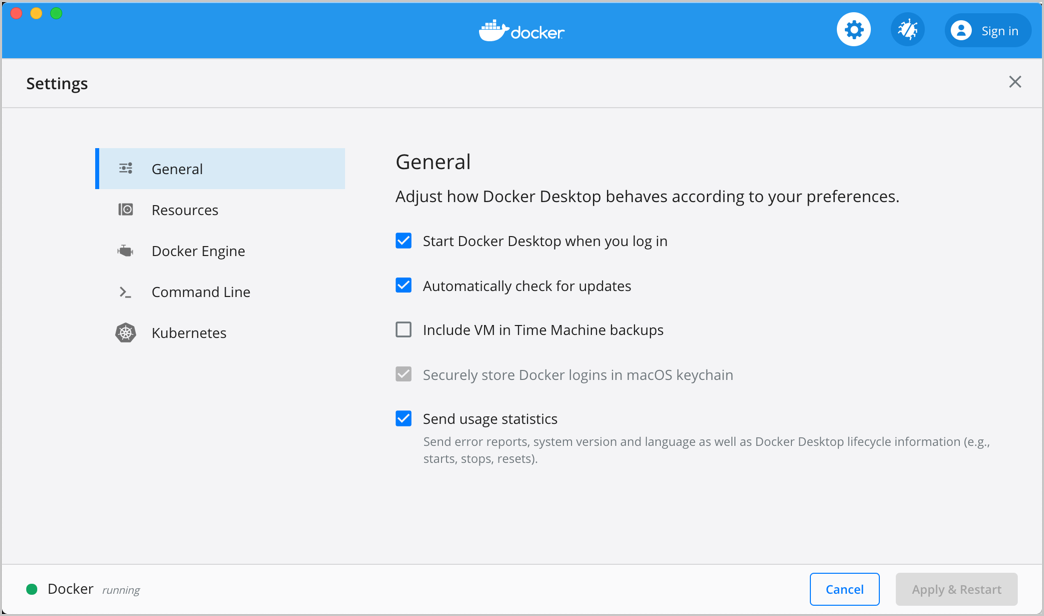
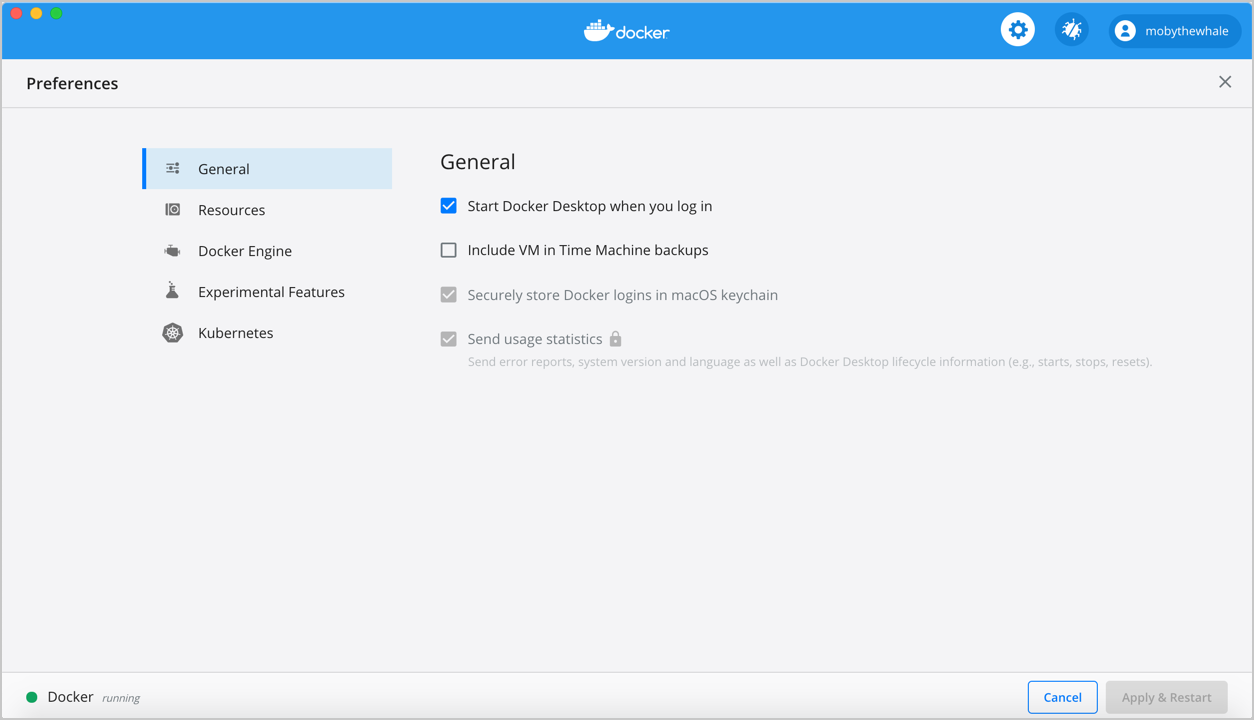
Update release notes and Settings screenshots

diff --git a/docker-for-mac/release-notes.md b/docker-for-mac/release-notes.md
@@ -23,25 +23,25 @@ This page contains information about the new features, improvements, known issue
 
 ### New
 
-- Docker Desktop updates are now much smaller as they will be applied using delta patches. For more information, see [Automatic updates](install.md#automatic-updates).
 - Use of three-digit version number for Docker Desktop releases.
-- Support for `docker compose` command for local containers (experimental) by default.
+- Starting with Docker Desktop 3.0.0, updates are now much smaller as they will be applied using delta patches. For more information, see [Automatic updates](install.md#automatic-updates).
+- First version of `docker compose` (as an alternative to the existing `docker-compose`). Supports some basic commands but not the complete functionality of `docker-compose` yet.
 
   - Supports the following subcommands: `up`, `down`, `logs`, `build`, `pull`, `push`, `ls`, `ps`
   - Supports basic volumes, bind mounts, networks, and environment variables
 
     Let us know your feedback by creating an issue in the [compose-cli](https://github.com/docker/compose-cli/issues){: target="blank" rel="noopener" class=“”} GitHub repository.
+- [Docker Hub Tool v0.2.0](https://github.com/docker/roadmap/issues/117){: target="blank" rel="noopener" class=“”}
 
 ### Upgrades
 
-- [Docker Engine 20.10.0-rc2](https://github.com/docker/docker-ce/blob/master/CHANGELOG.md#20100)
+- [Docker Engine 20.10.0](https://docs.docker.com/engine/release-notes/#20100)
 - [Go 1.15.6](https://github.com/golang/go/issues?q=milestone%3AGo1.15.6+label%3ACherryPickApproved+)
-- [Compose CLI v1.0.3](https://github.com/docker/compose-cli/releases/tag/v1.0.3)
+- [Compose CLI v1.0.4](https://github.com/docker/compose-cli/releases/tag/v1.0.4)
+- [Snyk v1.432.0](https://github.com/snyk/snyk/releases/tag/v1.432.0)
 
 ### Bug fixes and minor changes
 
-- Changed the **Update and quit** menu entry to **Update and restart**.
-- Fixed the check for updates dialog reporting the build number instead of the version number of a new version.
 - Downgraded the kernel to [4.19.121](https://hub.docker.com/layers/docker/for-desktop-kernel/4.19.121-2a1dbedf3f998dac347c499808d7c7e029fbc4d3-amd64/images/sha256-4e7d94522be4f25f1fbb626d5a0142cbb6e785f37e437f6fd4285e64a199883a?context=repo) to reduce the CPU usage of hyperkit. Fixes [docker/for-mac#5044](https://github.com/docker/for-mac/issues/5044)
 -  Fixed a bug that DNS would return `NXDOMAIN` when a name exists but the type of record was not found. Fixes [docker/for-mac#5020](https://github.com/docker/for-mac/issues/5020). Related to https://gitlab.alpinelinux.org/alpine/aports/-/issues/11879
 - Avoid caching bad file sizes and modes when using `osxfs`. Fixes [docker/for-mac#5045](https://github.com/docker/for-mac/issues/5045).
@@ -50,6 +50,10 @@ This page contains information about the new features, improvements, known issue
 - Re-enabled the experimental SOCKS proxy. Fixes [docker/for-mac#5048](https://github.com/docker/for-mac/issues/5048).
 - Fixed an unexpected EOF error when trying to start a non-existing container with `-v /var/run/docker.sock:`. See [docker/for-mac#5025](https://github.com/docker/for-mac/issues/5025).
 - Display an error message instead of crashing when the application needs write access on specific directories. See [docker/for-mac#5068](https://github.com/docker/for-mac/issues/5068)
+
+### Known issue
+
+- Building an image with BuildKit from a git URL fails when using the form `github.com/org/repo`. To work around this issue, use the form `git://github.com/org/repo`.
 
 ## Docker Desktop Community 2.5.0.1
 2020-11-10

diff --git a/docker-for-windows/release-notes.md b/docker-for-windows/release-notes.md
@@ -23,26 +23,31 @@ This page contains information about the new features, improvements, known issue
 
 ### New
 
-- Docker Desktop updates are now much smaller as they will be applied using delta patches. For more information, see [Automatic updates](install.md#automatic-updates).
 - Use of three-digit version number for Docker Desktop releases.
-- Support for `docker compose` command for local containers (experimental) by default.
+- Docker Desktop updates are now much smaller as they will be applied using delta patches. For more information, see [Automatic updates](install.md#automatic-updates).
+- First version of `docker compose` (as an alternative to the existing `docker-compose`). Supports some basic commands but not the complete functionality of `docker-compose` yet.
 
   - Supports the following subcommands: `up`, `down`, `logs`, `build`, `pull`, `push`, `ls`, `ps`
   - Supports basic volumes, bind mounts, networks, and environment variables
 
     Let us know your feedback by creating an issue in the [compose-cli](https://github.com/docker/compose-cli/issues){: target="blank" rel="noopener" class=“”} GitHub repository.
+- [Docker Hub Tool v0.2.0](https://github.com/docker/roadmap/issues/117){: target="blank" rel="noopener" class=“”}
 
 ### Upgrades
 
-- [Docker Engine 20.10.0-rc2](https://github.com/docker/docker-ce/blob/master/CHANGELOG.md#20100)
+- [Docker Engine 20.10.0](https://docs.docker.com/engine/release-notes/#20100)
 - [Go 1.15.6](https://github.com/golang/go/issues?q=milestone%3AGo1.15.6+label%3ACherryPickApproved+)
 - [Compose CLI v1.0.4](https://github.com/docker/compose-cli/releases/tag/v1.0.4)
+- [Snyk v1.432.0](https://github.com/snyk/snyk/releases/tag/v1.432.0)
 
 ### Bug fixes and minor changes
 
-- Fixed an issue causing the background update to fail when the current user is not an administrator.
 - Downgraded the kernel to [4.19.121](https://hub.docker.com/layers/docker/for-desktop-kernel/4.19.121-2a1dbedf3f998dac347c499808d7c7e029fbc4d3-amd64/images/sha256-4e7d94522be4f25f1fbb626d5a0142cbb6e785f37e437f6fd4285e64a199883a?context=repo) to reduce the CPU usage of hyperkit. Fixes [docker/for-mac#5044](https://github.com/docker/for-mac/issues/5044)
 - Fixed an unexpected EOF error when trying to start a non-existing container with `-v /var/run/docker.sock:`. See [docker/for-mac#5025](https://github.com/docker/for-mac/issues/5025).
+
+### Known issue
+
+- Building an image with BuildKit from a git URL fails when using the form `github.com/org/repo`. To work around this issue, use the form `git://github.com/org/repo`.
 
 ## Docker Desktop Community 2.5.0.1
 2020-11-10

diff --git a/docker-for-windows/index.md b/docker-for-windows/index.md
@@ -43,11 +43,6 @@ On the **General** tab of the Settings dialog, you can configure when to start a
 
 * **Start Docker when you log in** - Automatically start Docker Desktop upon Windows system login.
 
-* **Automatically check for updates** - By default, Docker Desktop automatically checks for updates and notifies you when an update is available.
-Click **OK** to accept and install updates (or cancel to keep the current
-version). You can manually update by choosing **Check for Updates** from the
-main Docker menu.
-
 * **Expose daemon on tcp://localhost:2375 without TLS** - Click this option to enable legacy clients to connect to the Docker daemon. You must use this option with caution as exposing the daemon without TLS can result in remote code execution attacks.
 
 * **Send usage statistics** - By default, Docker Desktop sends diagnostics,

diff --git a/docker-for-mac/index.md b/docker-for-mac/index.md
@@ -43,8 +43,6 @@ On the **General** tab, you can configure when to start and update Docker:
 
 - **Start Docker Desktop when you log in**: Automatically starts Docker Desktop when you open your session.
 
-- **Automatically check for updates**: By default, Docker Desktop automatically checks for updates and notifies you when an update is available. You can manually check for updates anytime by choosing **Check for Updates** from the main Docker menu.
-
 - **Include VM in Time Machine backups**: Select this option to back up the Docker Desktop virtual machine. This option is disabled by default.
 
 - **Securely store Docker logins in macOS keychain**: Docker Desktop stores your Docker login credentials in macOS keychain by default.
